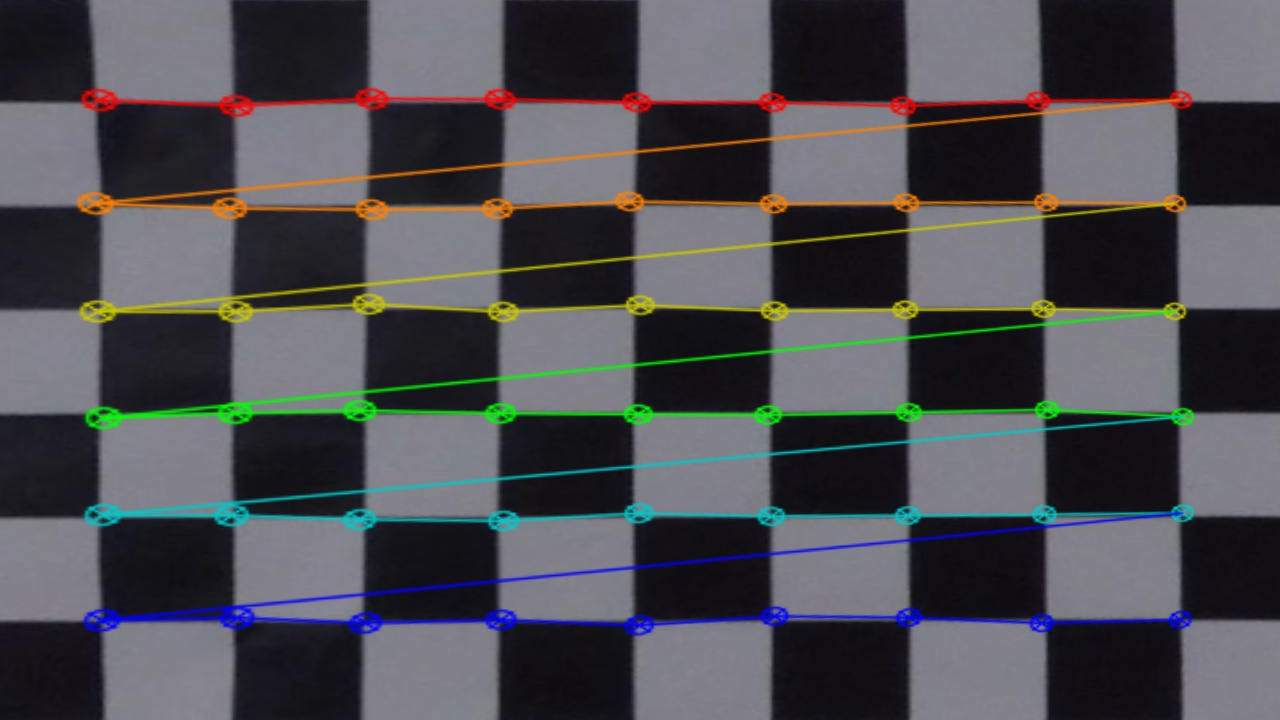
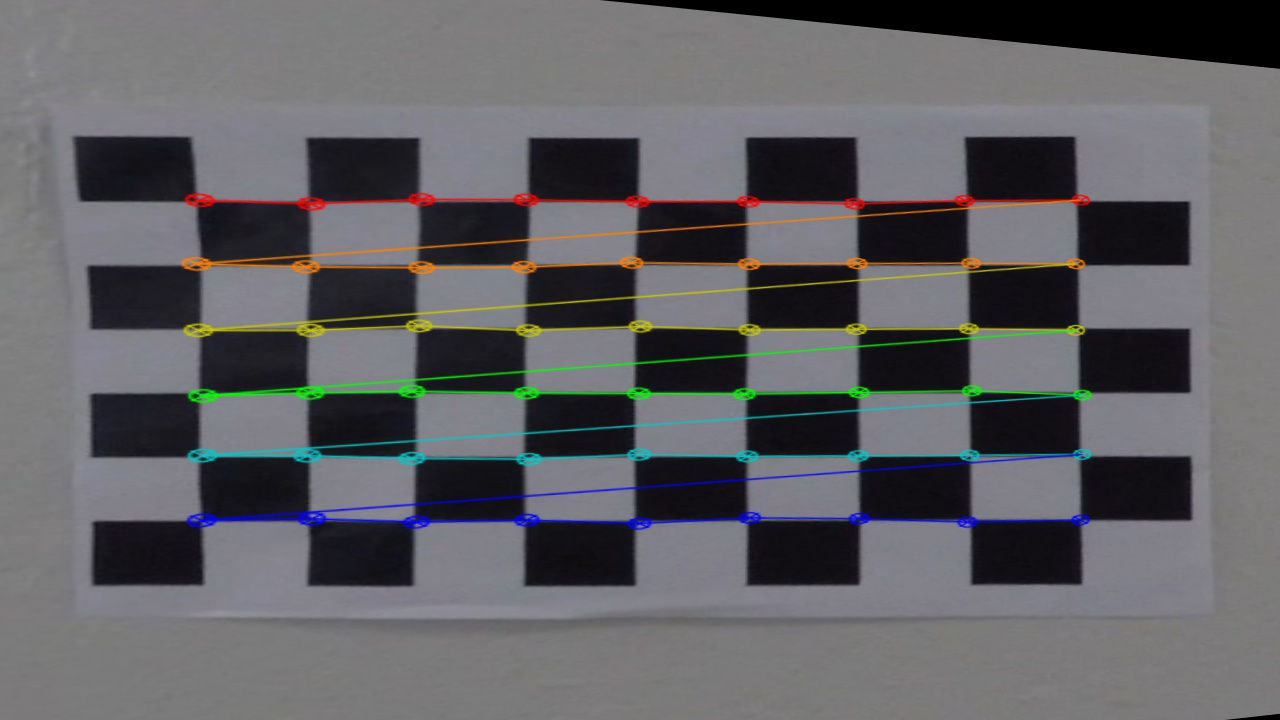
perspective transform with output completed

diff --git a/examples/project_4.py b/examples/project_4.py
@@ -134,7 +134,7 @@ class Line():
             if ret == True:
                 # If we found corners, draw them! (just for fun)
                 cv2.drawChessboardCorners(undistordedImage, (self.nx, self.ny), corners, ret)
-                offset = 100 # offset for dst points
+                offset = 200 # offset for dst points
                 # Grab the image shape
                 img_size = (gray.shape[1], gray.shape[0])
                 
@@ -149,8 +149,9 @@ class Line():
                 # Warp the image using OpenCV warpPerspective()
                 warped = cv2.warpPerspective(undistordedImage, M, img_size)
                 cv2.imwrite(self.outputImageLocation + 'perspectiveTransformOutput_' + fname.split('/')[-1],warped)
-#                cv2.imshow(fname,warped)
-#                cv2.waitKey()
+            else:
+                cv2.imwrite(self.outputImageLocation + 'perspectiveTransformOutput_' + fname.split('/')[-1],undistordedImage)
+                
                 
                 
                 
